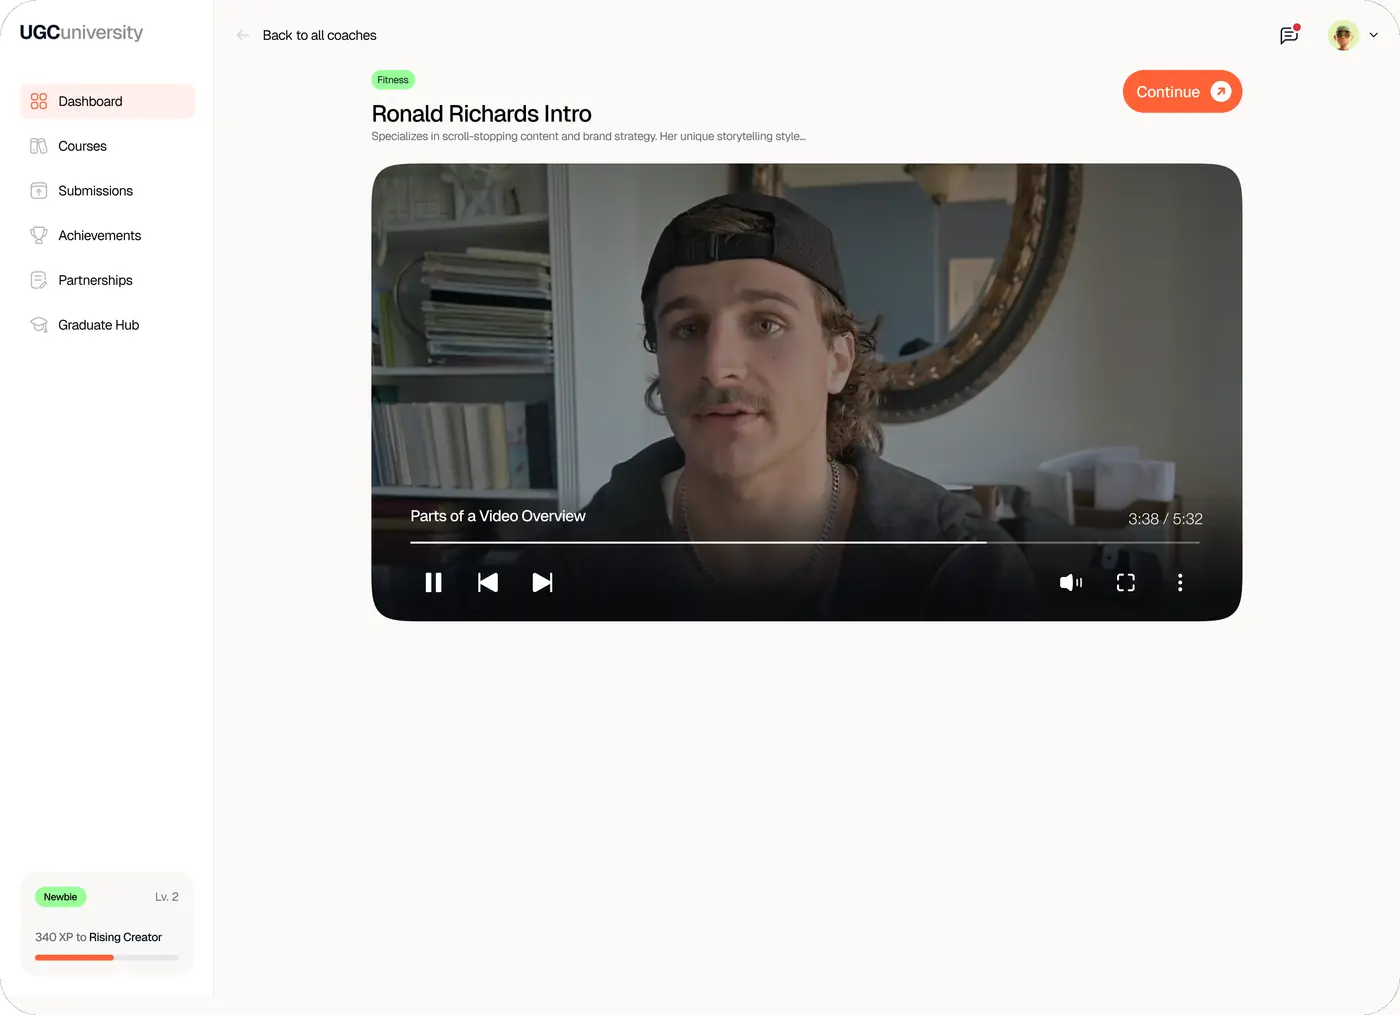
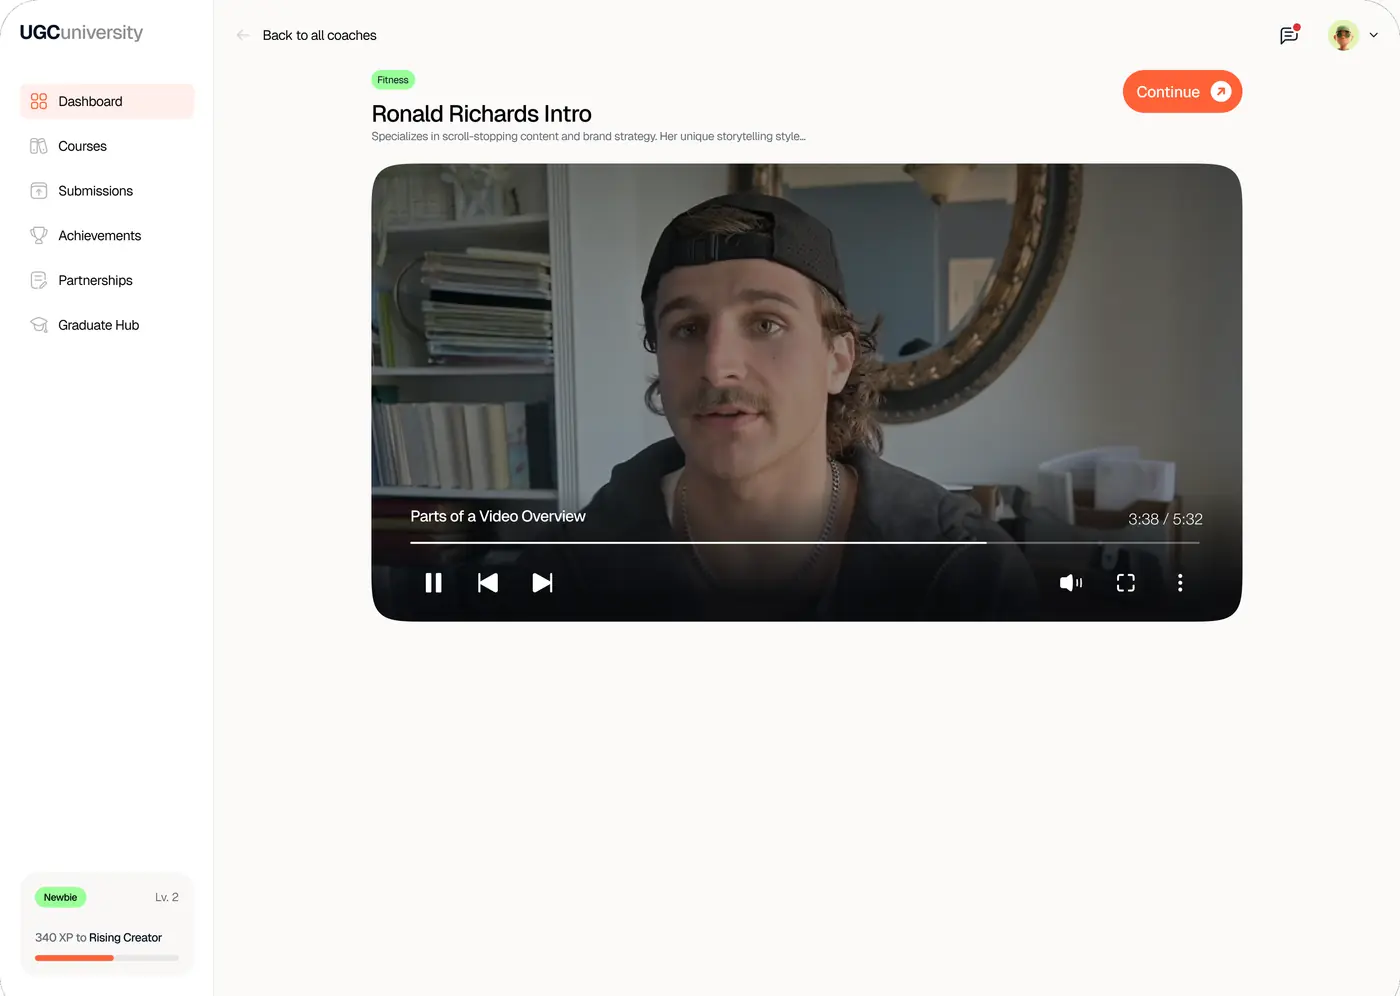
Add the UGC University website to its case study, and fix cropped images (#7)
The UGC University case study gains a website section: the Home and Coach profile pages as full pages that scroll on hover, with the decisions behind them. Gallery screens no longer crop, the UGC cover photos always load, and the coach intro screen keeps its bottom edge.

Claude-Session: https://claude.ai/code/session_01V1jac2oCXDs2rJopL1s2Jd

diff --git a/src/pages/CaseStudy.jsx b/src/pages/CaseStudy.jsx
@@ -69,27 +69,19 @@ function CaseStudy({ project: p, next }) {
       })
     })
 
-    // Screens: each one opens from the bottom, then drifts slightly as you scroll.
+    // Screens: each one opens from the bottom and settles at full size, so no part of
+    // the screen is ever cropped once it is in view.
     gsap.utils.toArray('.cs-shot').forEach((shot) => {
+      const trigger = { trigger: shot, start: 'top 90%', once: true }
       gsap.fromTo(
         shot,
         { clipPath: 'inset(18% 0% 0% 0% round 18px)' },
-        {
-          clipPath: 'inset(0% 0% 0% 0% round 18px)',
-          duration: 1.4,
-          ease: 'expo.out',
-          scrollTrigger: { trigger: shot, start: 'top 90%', once: true },
-        },
+        { clipPath: 'inset(0% 0% 0% 0% round 18px)', duration: 1.4, ease: 'expo.out', scrollTrigger: trigger },
       )
       gsap.fromTo(
         shot.querySelector('img'),
-        { scale: 1.12, yPercent: -3 },
-        {
-          scale: 1,
-          yPercent: 3,
-          ease: 'none',
-          scrollTrigger: { trigger: shot, start: 'top bottom', end: 'bottom top', scrub: true },
-        },
+        { scale: 1.06 },
+        { scale: 1, duration: 1.6, ease: 'expo.out', scrollTrigger: trigger },
       )
     })
 
@@ -231,6 +223,8 @@ function CaseStudy({ project: p, next }) {
           ))}
         </>
       )}
+
+      {p.website?.pages?.length > 0 && <Website site={p.website} />}
 
       {highlights.length > 0 && (
         <section className="cs-section wrap">
@@ -436,6 +430,80 @@ function Feature({ feature: f, index }) {
           ))}
         </ol>
       )}
+    </section>
+  )
+}
+
+// A website shown as real pages: each long page sits in a browser frame and scrolls
+// through on hover or keyboard focus (and by touch on phones), followed by the
+// decisions behind it.
+const VIEW_H = 900 // the frame's viewport height, in the pages' own 1440px-wide pixels
+
+function Website({ site: w }) {
+  const pages = w.pages.filter((pg) => pg.url && pg.height)
+  const notes = w.notes ?? []
+
+  return (
+    <section className="cs-section wrap" aria-label="Website">
+      <div className="cs-split cs-split--head">
+        <p className="eyebrow">{w.eyebrow || 'The website'}</p>
+        <div>
+          <SplitReveal as="h2" className="cs-h2">
+            {w.title} {w.em && <em>{w.em}</em>}
+          </SplitReveal>
+          {w.text && (
+            <p className="cs-feature-problem" data-reveal>
+              {w.text}
+            </p>
+          )}
+        </div>
+      </div>
+
+      <div className="cs-sites">
+        {pages.map((pg) => {
+          const shift = Math.max(0, (1 - VIEW_H / pg.height) * 100)
+          const style = { '--shift': `-${shift.toFixed(2)}%`, '--dur': `${Math.round(pg.height / 500)}s` }
+          return (
+            <figure className="cs-site" key={pg.url} data-reveal>
+              <div className="cs-site-bar" aria-hidden="true">
+                <i />
+                <i />
+                <i />
+                <span>{pg.path || pg.label}</span>
+              </div>
+              <div className="cs-site-view" tabIndex={0} aria-label={`${pg.label}, full page`}>
+                <img src={pg.url} alt={pg.alt || `${pg.label} page`} loading="lazy" style={style} />
+              </div>
+              <figcaption>
+                <b>{pg.label}</b>
+                {pg.caption ? (
+                  <span className="cs-site-hint">{pg.caption}</span>
+                ) : (
+                  <span className="cs-site-hint">
+                    <span className="on-hover">Hover to scroll the full page</span>
+                    <span className="on-touch">Scroll inside to see the full page</span>
+                  </span>
+                )}
+              </figcaption>
+            </figure>
+          )
+        })}
+      </div>
+
+      {notes.length > 0 && (
+        <ol className="cs-notes">
+          {notes.map((n, i) => (
+            <li key={i} data-reveal data-reveal-delay={i * 0.08}>
+              <span className="cs-note-num" aria-hidden="true">
+                {i + 1}
+              </span>
+              <h3>{n.title}</h3>
+              <p>{n.text}</p>
+            </li>
+          ))}
+        </ol>
+      )}
+
     </section>
   )
 }

diff --git a/src/content.js b/src/content.js
@@ -265,7 +265,7 @@ export const projects = [
     kind: 'academy',
     colors: { bg: '#ff6137', bg2: '#ffd9cc', ui: '#ffffff', accent: '#ff6137', ink: '#1b1714' },
     overview:
-      'UGC University trains creators to make content brands pay for. Creators pick a coach who already sells on TikTok Shop, learn by filming real assignments, get reviewed, and graduate into paid brand partnerships. I designed the learning platform end to end, from sign-in and choosing a coach to lessons, submissions, achievements, partnerships and the graduate hub, along with the marketing site and the logo explorations.',
+      'UGC University trains creators to make content brands pay for. Creators pick a coach who already sells on TikTok Shop, learn by filming real assignments, get reviewed, and graduate into paid brand partnerships. I designed the learning platform end to end, from sign-in and choosing a coach to lessons, submissions, achievements, partnerships and the graduate hub, plus the marketing website that sells the program.',
     challenge:
       'Most creator courses are a playlist and a promise: people watch, never film, and drift off long before they earn anything. The platform had to turn watching into doing, give creators a reason to come back every day, and keep the payoff, real brand deals, in sight from day one without opening it up before they are ready.',
     quote: 'How might we turn watching tutorials into a daily habit of filming, with a brand deal at the end?',
@@ -367,6 +367,34 @@ export const projects = [
         ],
       },
     ],
+    website: {
+      eyebrow: 'The website',
+      title: 'A site that sells',
+      em: 'the outcome',
+      text: 'Before anyone sees the app, the website has to make a pay-what-you-want course feel credible. Every section leads with proof: real coaches, real revenue and real student results.',
+      pages: [
+        {
+          url: '/work/ugc-university/web-home.webp',
+          height: 7838,
+          label: 'Home',
+          path: 'ugcuniversity.com',
+          alt: 'The full home page: hero with coaches, stats, the program, coach earnings, three steps, success stories, pricing and FAQ',
+        },
+        {
+          url: '/work/ugc-university/web-coach.webp',
+          height: 7598,
+          label: 'Coach profile',
+          path: 'ugcuniversity.com/coaches/sam-schuerman',
+          alt: 'A full coach profile: about, stats, top-earning videos, ten course modules, success stories, pricing and FAQ',
+        },
+      ],
+      notes: [
+        { title: 'The coaches are the product', text: 'The hero leads with the coaches themselves, each with their niche, brand revenue and videos created, before any feature list.' },
+        { title: 'Proof before the pitch', text: '125K+ affiliates trained, $1B+ in revenue, 15M+ products sold: the numbers come first, and again right where people decide to pay.' },
+        { title: 'Pay what you think it’s worth', text: 'The pricing promise is the headline. The pricing block says “You decide”, with everything included listed beside it.' },
+        { title: 'Every coach gets a page', text: 'A profile with their story, top-earning videos and the full module list, each module one sign-in away.' },
+      ],
+    },
     explorations: {
       eyebrow: 'Statuses',
       title: 'One lesson,',
@@ -383,7 +411,6 @@ export const projects = [
       { url: '/work/ugc-university/sign-in.webp', caption: 'Sign-in: the promise and the proof first, with 125,847+ creators trained by coaches still in the game.' },
       { url: '/work/ugc-university/courses.webp', ratio: '1440 / 1024', caption: 'Courses: one coach at a time. The others dim, and a banner says how to switch.' },
       { url: '/work/ugc-university/submissions.webp', ratio: '1440 / 1024', caption: 'Submissions: total, approved, pending and what needs your action, above one list of work.' },
-      { url: '/work/ugc-university/coaches.webp', caption: 'Marketing site: coaches shown the way creators show up, with their niche, brand revenue and videos created.' },
     ],
     resultsHeading: { eyebrow: 'The product', title: 'By the', em: 'numbers' },
     results: [

diff --git a/src/pages/case.css b/src/pages/case.css
@@ -689,6 +689,133 @@
   font-weight: 600;
 }
 
+/* ── Website ───────────────────────────────────────────────────────────── */
+
+.cs-sites {
+  display: grid;
+  grid-template-columns: repeat(2, minmax(0, 1fr));
+  gap: clamp(16px, 2.4vw, 40px);
+  padding: clamp(14px, 4vw, 64px);
+  border-radius: var(--radius);
+  background: color-mix(in srgb, var(--p-bg2) 42%, var(--bg-2));
+}
+
+.cs-site {
+  min-width: 0;
+}
+
+.cs-site-bar {
+  display: flex;
+  align-items: center;
+  gap: 6px;
+  padding: 10px 14px;
+  border-radius: 14px 14px 0 0;
+  background: #fff;
+  box-shadow: 0 0 0 1px rgba(0, 0, 0, 0.06);
+}
+
+.cs-site-bar i {
+  width: 9px;
+  height: 9px;
+  border-radius: 50%;
+  background: #e2ded9;
+}
+
+.cs-site-bar span {
+  flex: 1;
+  overflow: hidden;
+  margin-left: 10px;
+  padding: 4px 12px;
+  border-radius: 99px;
+  background: #f3f1ee;
+  color: #6f6a64;
+  font-size: 12px;
+  white-space: nowrap;
+  text-overflow: ellipsis;
+}
+
+.cs-site-view {
+  position: relative;
+  overflow: hidden;
+  aspect-ratio: 1440 / 900;
+  border-radius: 0 0 14px 14px;
+  background: #fff;
+  box-shadow:
+    0 0 0 1px rgba(0, 0, 0, 0.06),
+    0 30px 60px -30px rgba(20, 30, 10, 0.45);
+  outline: none;
+}
+
+.cs-site-view img {
+  display: block;
+  width: 100%;
+  height: auto;
+  transition: translate 1.2s var(--ease-out);
+}
+
+/* Hover or focus plays the page from top to bottom; leaving brings it back up. */
+.cs-site-view:hover img,
+.cs-site-view:focus-visible img {
+  translate: 0 var(--shift);
+  transition: translate var(--dur) cubic-bezier(0.45, 0, 0.55, 1) 0.15s;
+}
+
+.cs-site-view:focus-visible {
+  box-shadow:
+    0 0 0 2px var(--p-accent),
+    0 30px 60px -30px rgba(20, 30, 10, 0.45);
+}
+
+.cs-site figcaption {
+  display: flex;
+  flex-wrap: wrap;
+  align-items: baseline;
+  gap: 4px 10px;
+  margin-top: 14px;
+  font-size: 15px;
+}
+
+.cs-site figcaption b {
+  font-weight: 500;
+}
+
+.cs-site-hint {
+  color: var(--fg-2);
+  font-size: 14px;
+}
+
+.cs-site-hint .on-touch {
+  display: none;
+}
+
+/* Touch screens can't hover: scroll the page inside its frame instead. */
+@media (hover: none) {
+  .cs-site-view {
+    overflow-y: auto;
+    overscroll-behavior: contain;
+  }
+  .cs-site-view:hover img,
+  .cs-site-view:focus-visible img {
+    translate: none;
+  }
+  .cs-site-hint .on-hover {
+    display: none;
+  }
+  .cs-site-hint .on-touch {
+    display: inline;
+  }
+}
+
+@media (prefers-reduced-motion: reduce) {
+  .cs-site-view {
+    overflow-y: auto;
+  }
+  .cs-site-view:hover img,
+  .cs-site-view:focus-visible img {
+    translate: none;
+  }
+}
+
 @media (max-width: 860px) {
   .cs-feature-plate.is-pair {
     grid-template-columns: 1fr;
@@ -702,5 +829,8 @@
   }
   .cs-explore {
     grid-template-columns: repeat(2, minmax(0, 1fr));
+  }
+  .cs-sites {
+    grid-template-columns: 1fr;
   }
 }

diff --git a/src/components/UgcCover.jsx b/src/components/UgcCover.jsx
@@ -50,7 +50,7 @@ function Lesson() {
           <b>Parts of a Video Overview</b>
         </div>
         <div className="ug-video">
-          <img src={`${IMG}/cover-lesson.webp`} alt="" loading="lazy" />
+          <img src={`${IMG}/cover-lesson.webp`} alt="" />
           <span className="ug-play">
             <Play />
           </span>
@@ -60,7 +60,7 @@ function Lesson() {
           </div>
         </div>
         <div className="ug-foot">
-          <img src={`${IMG}/cover-coach.webp`} alt="" className="ug-face" loading="lazy" />
+          <img src={`${IMG}/cover-coach.webp`} alt="" className="ug-face" />
           <span className="ug-coach">
             <b>Steve Aliance</b>
             <small>Coach</small>
@@ -139,7 +139,7 @@ function Level() {
   return (
     <div className="uw uw-level ug-level">
       <p className="uw-row">
-        <img src={`${IMG}/cover-avatar.webp`} alt="" className="uw-avatar" loading="lazy" />
+        <img src={`${IMG}/cover-avatar.webp`} alt="" className="uw-avatar" />
         <span className="uw-lv">Level 3 · Rising star</span>
       </p>
       <p className="uw-xp-line">

diff --git a/src/lib/caseStudies.js b/src/lib/caseStudies.js
@@ -32,6 +32,7 @@ export function toProject(row) {
     features: list(row.features),
     explorations: row.explorations || null,
     resultsHeading: row.results_heading || null,
+    website: row.website || null,
     learnings: text(row.learnings),
     published: Boolean(row.published),
     position: row.position ?? 0,
@@ -63,6 +64,7 @@ export function toRow(p) {
     features: list(p.features),
     explorations: p.explorations || null,
     results_heading: p.resultsHeading || null,
+    website: p.website || null,
     learnings: text(p.learnings),
     published: Boolean(p.published),
     position: p.position ?? 0,
